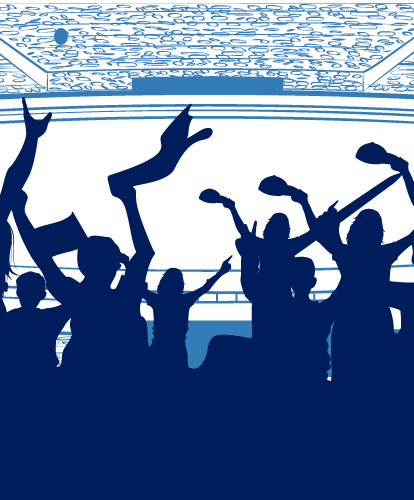
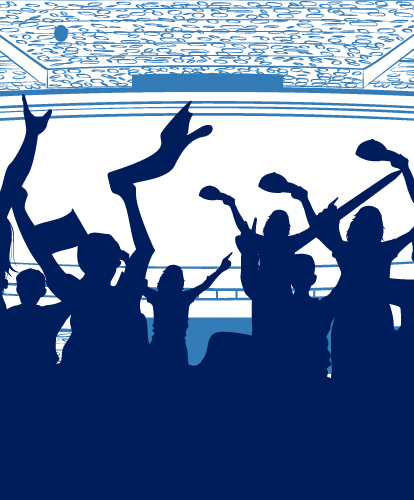
--- Auto-Git Commit ---

diff --git a/public/WidgetSubBasic/index.html b/public/WidgetSubBasic/index.html
@@ -161,7 +161,7 @@
                     #main-body {
                               background-image: url("cricketGround.png");
                               background-repeat: no-repeat;
-                              background-position-y: 95px;
+                              background-position-y: 96px;
                               height: 357px;
                               z-index: 20;
                     }
